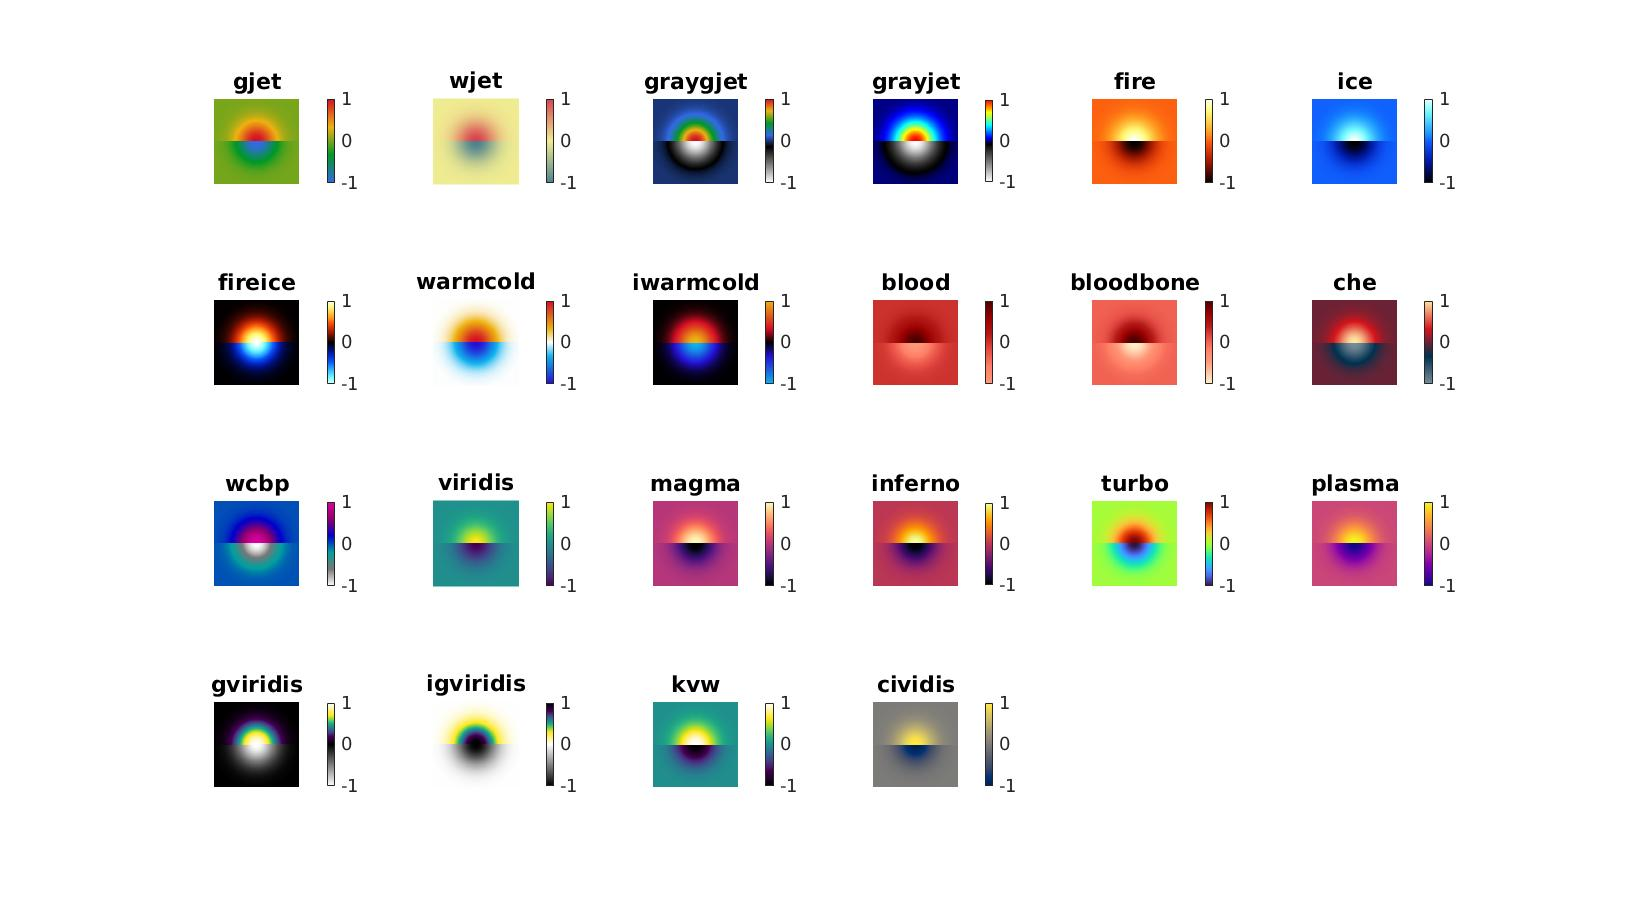
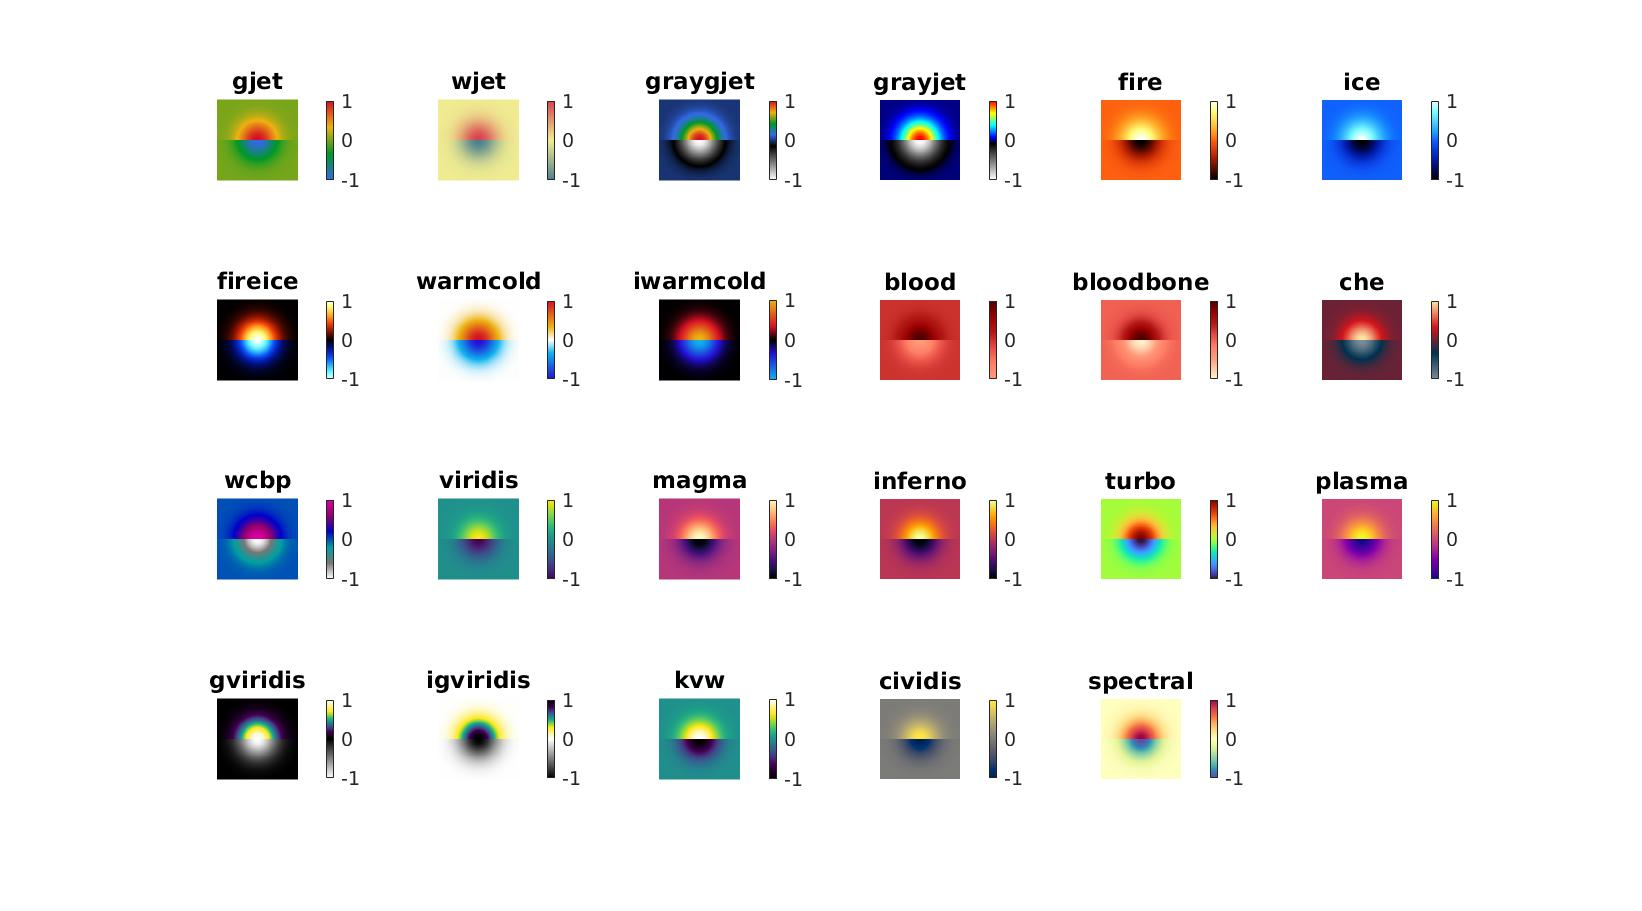
Added spectral colormap

diff --git a/docs/html/DEMO_additional_colormaps.html b/docs/html/DEMO_additional_colormaps.html
@@ -6,7 +6,7 @@
    <!--
 This HTML was auto-generated from MATLAB code.
 To make changes, update the MATLAB code and republish this document.
-      --><title>DEMO_additional_colormaps</title><meta name="generator" content="MATLAB 9.9"><link rel="schema.DC" href="http://purl.org/dc/elements/1.1/"><meta name="DC.date" content="2020-12-11"><meta name="DC.source" content="DEMO_additional_colormaps.m"><style type="text/css">
+      --><title>DEMO_additional_colormaps</title><meta name="generator" content="MATLAB 9.10"><link rel="schema.DC" href="http://purl.org/dc/elements/1.1/"><meta name="DC.date" content="2021-11-19"><meta name="DC.source" content="DEMO_additional_colormaps.m"><style type="text/css">
 html,body,div,span,applet,object,iframe,h1,h2,h3,h4,h5,h6,p,blockquote,pre,a,abbr,acronym,address,big,cite,code,del,dfn,em,font,img,ins,kbd,q,s,samp,small,strike,strong,tt,var,b,u,i,center,dl,dt,dd,ol,ul,li,fieldset,form,label,legend,table,caption,tbody,tfoot,thead,tr,th,td{margin:0;padding:0;border:0;outline:0;font-size:100%;vertical-align:baseline;background:transparent}body{line-height:1}ol,ul{list-style:none}blockquote,q{quotes:none}blockquote:before,blockquote:after,q:before,q:after{content:'';content:none}:focus{outine:0}ins{text-decoration:none}del{text-decoration:line-through}table{border-collapse:collapse;border-spacing:0}
 
 html { min-height:100%; margin-bottom:1px; }
@@ -82,7 +82,7 @@ clim=[-1 1];
 colormapset={<span class="string">'gjet'</span>,<span class="string">'wjet'</span>,<span class="string">'graygjet'</span>,<span class="string">'grayjet'</span>,<span class="keyword">...</span>
     <span class="string">'fire'</span>,<span class="string">'ice'</span>,<span class="string">'fireice'</span>,<span class="string">'warmcold'</span>,<span class="string">'iwarmcold'</span>,<span class="string">'blood'</span>,<span class="string">'bloodbone'</span>,<span class="keyword">...</span>
     <span class="string">'che'</span>,<span class="string">'wcbp'</span>,<span class="string">'viridis'</span>,<span class="string">'magma'</span>,<span class="string">'inferno'</span>,<span class="string">'turbo'</span>,<span class="keyword">...</span>
-    <span class="string">'plasma'</span>,<span class="string">'gviridis'</span>,<span class="string">'igviridis'</span>,<span class="string">'kvw'</span>,<span class="string">'cividis'</span>};
+    <span class="string">'plasma'</span>,<span class="string">'gviridis'</span>,<span class="string">'igviridis'</span>,<span class="string">'kvw'</span>,<span class="string">'cividis'</span>,<span class="string">'spectral'</span>};
 </pre><h2 id="3">The gibbon color maps</h2><p>Visualizing all additional color maps</p><pre class="codeinput">n1=floor(sqrt(numel(colormapset)));
 n2=ceil(numel(colormapset)/n1);
 
@@ -100,7 +100,7 @@ cFigure;
     caxis(clim);
 <span class="keyword">end</span>
 drawnow;
-</pre><img width="100%" height="auto" vspace="5" hspace="5" src="DEMO_additional_colormaps_01.jpg" alt=""> <p><img vspace="5" hspace="5" src="gibbVerySmall.gif" alt=""> </p><p><i><b>GIBBON</b></i> <a href="www.gibboncode.org">www.gibboncode.org</a></p><p><i>Kevin Mattheus Moerman</i>, <a href="gibbon.toolbox@gmail.com">gibbon.toolbox@gmail.com</a></p><p><i><b>GIBBON footer text</b></i></p><p>License: <a href="https://github.com/gibbonCode/GIBBON/blob/master/LICENSE">https://github.com/gibbonCode/GIBBON/blob/master/LICENSE</a></p><p>GIBBON: The Geometry and Image-based Bioengineering add-On. A toolbox for image segmentation, image-based modeling, meshing, and finite element analysis.</p><p>Copyright (C) 2006-2020 Kevin Mattheus Moerman</p><p>This program is free software: you can redistribute it and/or modify it under the terms of the GNU General Public License as published by the Free Software Foundation, either version 3 of the License, or (at your option) any later version.</p><p>This program is distributed in the hope that it will be useful, but WITHOUT ANY WARRANTY; without even the implied warranty of MERCHANTABILITY or FITNESS FOR A PARTICULAR PURPOSE.  See the GNU General Public License for more details.</p><p>You should have received a copy of the GNU General Public License along with this program.  If not, see <a href="http://www.gnu.org/licenses/">http://www.gnu.org/licenses/</a>.</p><p class="footer"><br><a href="https://www.mathworks.com/products/matlab/">Published with MATLAB&reg; R2020b</a><br></p></div><!--
+</pre><img width="100%" height="auto" vspace="5" hspace="5" src="DEMO_additional_colormaps_01.jpg" alt=""> <p><img vspace="5" hspace="5" src="gibbVerySmall.gif" alt=""> </p><p><i><b>GIBBON</b></i> <a href="www.gibboncode.org">www.gibboncode.org</a></p><p><i>Kevin Mattheus Moerman</i>, <a href="gibbon.toolbox@gmail.com">gibbon.toolbox@gmail.com</a></p><p><i><b>GIBBON footer text</b></i></p><p>License: <a href="https://github.com/gibbonCode/GIBBON/blob/master/LICENSE">https://github.com/gibbonCode/GIBBON/blob/master/LICENSE</a></p><p>GIBBON: The Geometry and Image-based Bioengineering add-On. A toolbox for image segmentation, image-based modeling, meshing, and finite element analysis.</p><p>Copyright (C) 2006-2021 Kevin Mattheus Moerman and the GIBBON contributors</p><p>This program is free software: you can redistribute it and/or modify it under the terms of the GNU General Public License as published by the Free Software Foundation, either version 3 of the License, or (at your option) any later version.</p><p>This program is distributed in the hope that it will be useful, but WITHOUT ANY WARRANTY; without even the implied warranty of MERCHANTABILITY or FITNESS FOR A PARTICULAR PURPOSE.  See the GNU General Public License for more details.</p><p>You should have received a copy of the GNU General Public License along with this program.  If not, see <a href="http://www.gnu.org/licenses/">http://www.gnu.org/licenses/</a>.</p><p class="footer"><br><a href="https://www.mathworks.com/products/matlab/">Published with MATLAB&reg; R2021a</a><br></p></div><!--
 ##### SOURCE BEGIN #####
 %% DEMO_additional_colormaps
 % Below is a demonstration for:
@@ -125,7 +125,7 @@ clim=[-1 1];
 colormapset={'gjet','wjet','graygjet','grayjet',...
     'fire','ice','fireice','warmcold','iwarmcold','blood','bloodbone',...
     'che','wcbp','viridis','magma','inferno','turbo',...
-    'plasma','gviridis','igviridis','kvw','cividis'};
+    'plasma','gviridis','igviridis','kvw','cividis','spectral'};
 
 %% The gibbon color maps
 
@@ -168,7 +168,7 @@ drawnow;
 % image segmentation, image-based modeling, meshing, and finite element
 % analysis.
 % 
-% Copyright (C) 2006-2020 Kevin Mattheus Moerman
+% Copyright (C) 2006-2021 Kevin Mattheus Moerman and the GIBBON contributors
 % 
 % This program is free software: you can redistribute it and/or modify
 % it under the terms of the GNU General Public License as published by

diff --git a/lib/spectral.m b/lib/spectral.m
@@ -1,0 +1,29 @@
+function cMap=spectral(varargin)
+
+%%
+
+switch nargin
+    case 0
+        n=250;
+    case 1
+        n=varargin{1};
+end
+
+%%
+
+cMap=[0.368627450980392,0.309803921568627,0.635294117647059;...
+      0.196078431372549,0.533333333333333,0.741176470588235;...
+      0.400000000000000,0.760784313725490,0.647058823529412;...
+      0.670588235294118,0.866666666666667,0.643137254901961;...
+      0.901960784313726,0.960784313725490,0.596078431372549;...
+      1,1,0.749019607843137;...
+      0.996078431372549,0.878431372549020,0.545098039215686;...
+      0.992156862745098,0.682352941176471,0.380392156862745;...
+      0.956862745098039,0.427450980392157,0.262745098039216;...
+      0.835294117647059,0.243137254901961,0.309803921568627;...
+      0.619607843137255,0.00392156862745098,0.258823529411765];
+
+if n~=size(cMap,1)
+    cMap=resampleColormap(cMap,n);
+end
+

diff --git a/docs/DEMO_additional_colormaps.m b/docs/DEMO_additional_colormaps.m
@@ -21,7 +21,7 @@ clim=[-1 1];
 colormapset={'gjet','wjet','graygjet','grayjet',...
     'fire','ice','fireice','warmcold','iwarmcold','blood','bloodbone',...
     'che','wcbp','viridis','magma','inferno','turbo',...
-    'plasma','gviridis','igviridis','kvw','cividis'};
+    'plasma','gviridis','igviridis','kvw','cividis','spectral'};
 
 %% The gibbon color maps
 
